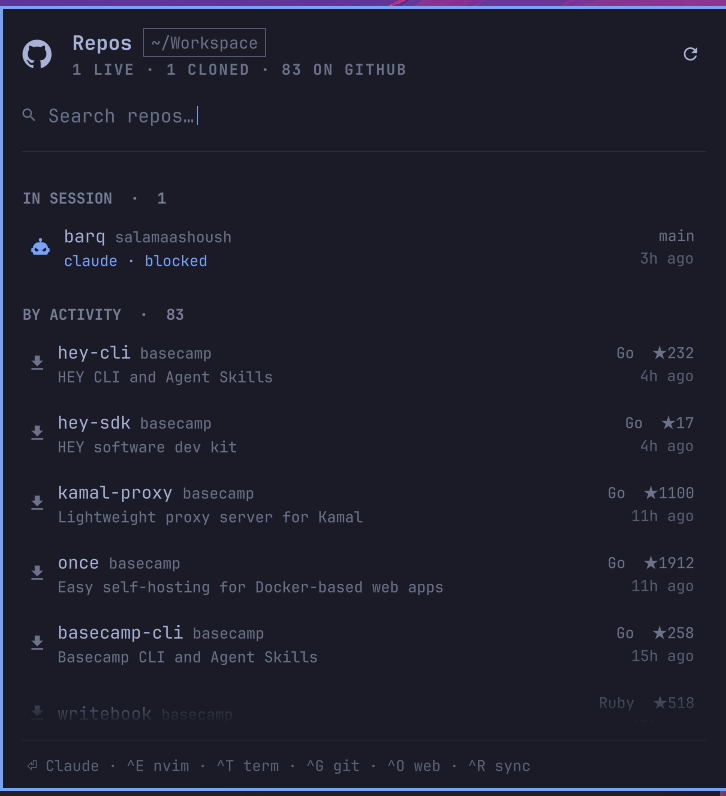
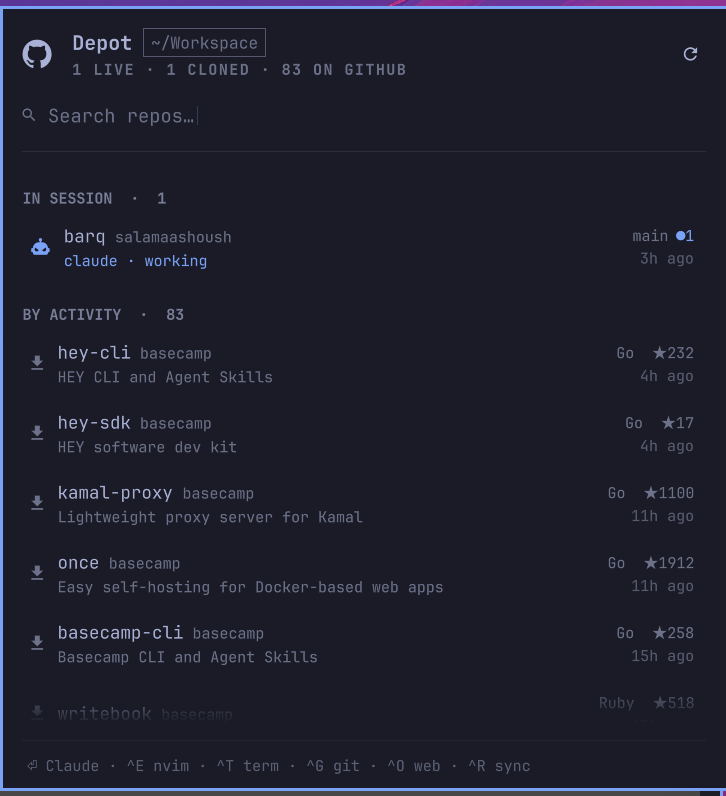
Rename to Depot (sashoush.depot)
"Repos" was descriptive but forgettable next to the named plugins already in
the marketplace registry. A depot is a repository, so the name says what the
panel holds without restating it.

The <author>.<thing> id namespace is kept — it matches the convention across
the registry (dizziee.power-profiles, felixzsh.rails, hancore.shibumi) — and
the repository keeps the omarchy-<thing> form the other listings use.

diff --git a/Panel.qml b/Panel.qml
@@ -12,8 +12,8 @@ import "Model.js" as Model
 // without knowing anything about which theme is on.
 Panel {
   id: root
-  moduleName: "sashoush.repos"
-  ipcTarget: "sashoush.repos"
+  moduleName: "sashoush.depot"
+  ipcTarget: "sashoush.depot"
   manageIpc: false
 
   // A user plugin can't lean on $OMARCHY_PATH the way a first-party one does,
@@ -294,7 +294,7 @@ Panel {
               spacing: Style.space(8)
 
               Text {
-                text: "Repos"
+                text: "Depot"
                 color: root.foreground
                 font.family: root.fontFamily
                 font.pixelSize: Style.font.title

diff --git a/repos.py b/repos.py
@@ -1,5 +1,5 @@
 #!/usr/bin/env python3
-"""Repo inventory for the sashoush.repos Omarchy shell plugin.
+"""Repo inventory for the sashoush.depot Omarchy shell plugin.
 
 Prints one JSON document on stdout describing every repo the panel can show:
 local checkouts under the workspace folder, each with live git status, merged

diff --git a/README.md b/README.md
@@ -1,15 +1,15 @@
-# Repos — an Omarchy shell plugin
+# Depot — an Omarchy shell plugin
 
 Every GitHub repo you can reach, in your Omarchy bar. See which checkouts have
 uncommitted work, clone the ones you haven't, and start a Claude Code session
 in any of them — without leaving the keyboard.
 
-![The Repos panel](docs/screenshot.png)
+![The Depot panel](docs/screenshot.png)
 
 ## Install
 
 ```bash
-omarchy plugin add https://github.com/salamaashoush/omarchy-repos.git --enable --yes
+omarchy plugin add https://github.com/salamaashoush/omarchy-depot.git --enable --yes
 omarchy restart shell
 ```
 
@@ -20,7 +20,7 @@ Omarchy. Optional: `lazygit` for the git action.
 To summon it from the keyboard, add a binding to `~/.config/hypr/bindings.lua`:
 
 ```lua
-o.bind("SUPER + SHIFT + R", "Repos", "omarchy-shell sashoush.repos toggle")
+o.bind("SUPER + SHIFT + R", "Repos", "omarchy-shell sashoush.depot toggle")
 ```
 
 Pick a combination that is free on your machine — `hyprctl binds -j` is the
@@ -78,7 +78,7 @@ short names, and two owners can share one.
 For a yolo session:
 
 ```bash
-omarchy bar set sashoush.repos claudeArgs '--dangerously-skip-permissions'
+omarchy bar set sashoush.depot claudeArgs '--dangerously-skip-permissions'
 ```
 
 ## Clone destinations
@@ -92,7 +92,7 @@ Uncontested names stay flat. Cloning goes through `gh`, so it honors your
 
 ## Settings
 
-`omarchy bar set sashoush.repos <key> <value>` (numbers and booleans need
+`omarchy bar set sashoush.depot <key> <value>` (numbers and booleans need
 `--json`):
 
 | Key | Default | Meaning |
